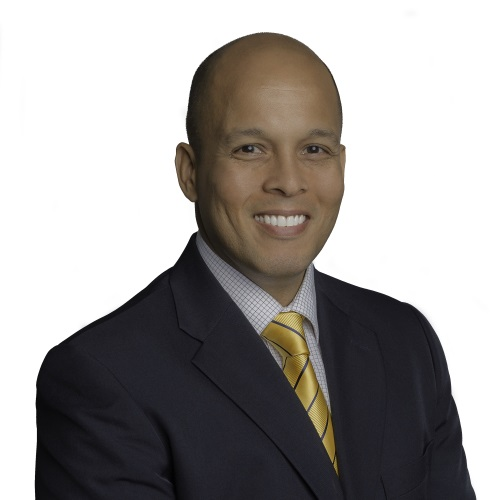
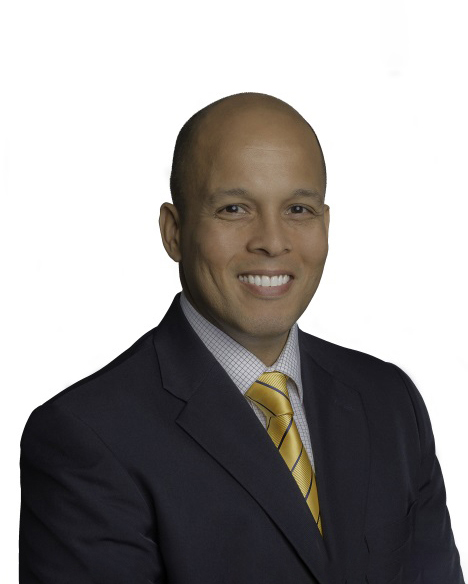
update testimonial images

diff --git a/assets/css/main.css b/assets/css/main.css
@@ -360,7 +360,7 @@ img {
 }
 #testimonial .commant .claint {
   width: 270px;
-  height: 270px;
+  height: 320px;
   margin-left: -15px;
   position: relative;
 }
